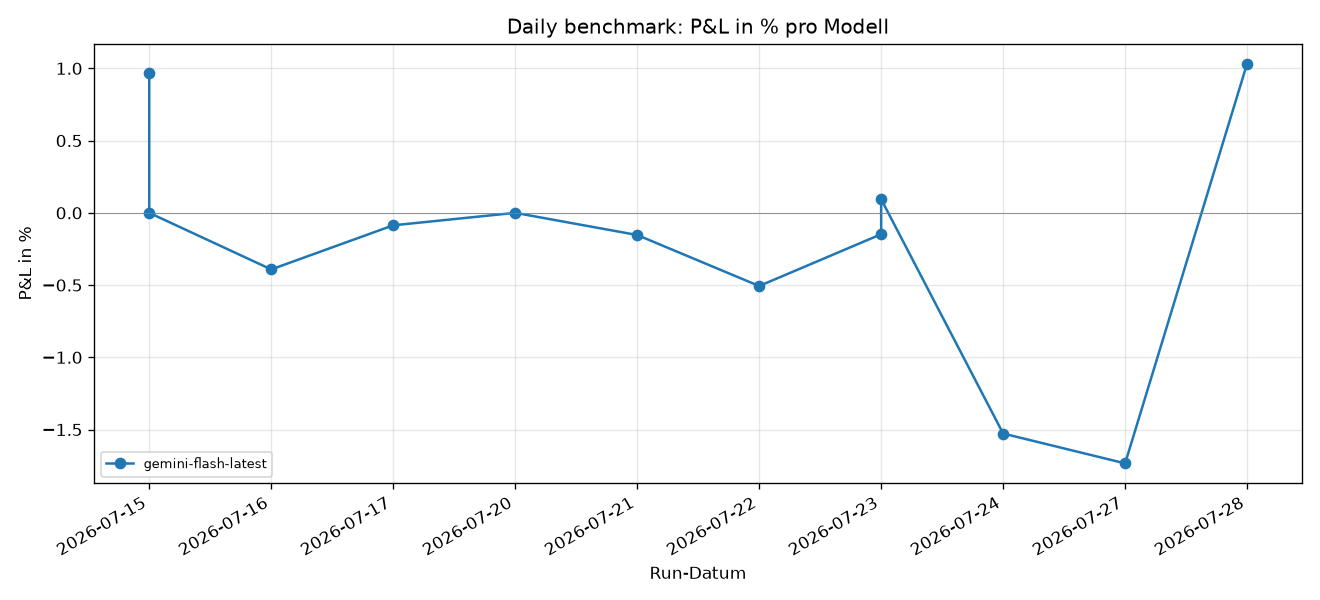
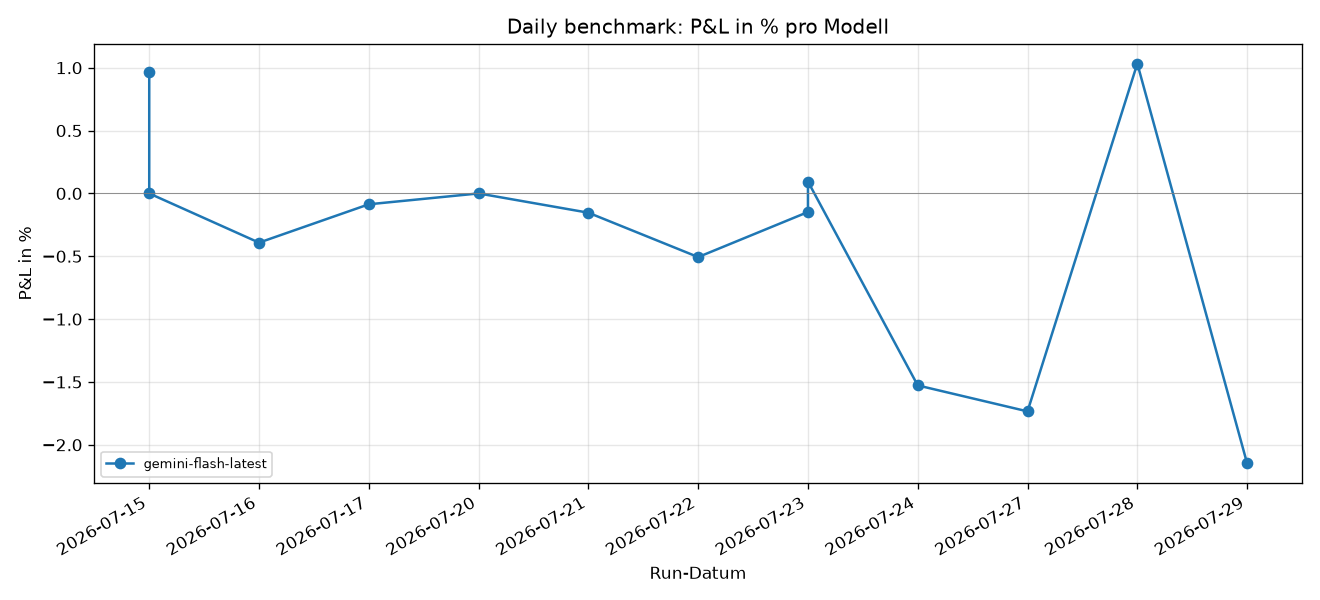
gemini benchmark: 2026-07-29 [skip ci]

diff --git a/docs/index.html b/docs/index.html
@@ -19,17 +19,17 @@
   <h1>AgentTrader — täglicher Modell-Benchmark</h1>
   <p>
     Automatisch generiert aus <code>data/leaderboard.csv</code>.
-    Insgesamt 12 Läufe, 1 Modelle,
-    Zeitraum 2026-07-15 bis 2026-07-28.
+    Insgesamt 13 Läufe, 1 Modelle,
+    Zeitraum 2026-07-15 bis 2026-07-29.
   </p>
 
-  <h2>Letzter Lauf (2026-07-28)</h2>
+  <h2>Letzter Lauf (2026-07-29)</h2>
   <table>
     <thead><tr>
       <th>Modell</th><th>Prompt</th><th>Trades</th>
       <th>Start</th><th>Ende</th><th>P&L %</th><th>Audit</th>
     </tr></thead>
-    <tbody><tr><td>gemini-flash-latest</td><td>v6</td><td>4</td><td>10000.00</td><td>10103.30</td><td><span class="pos">+1.03 %</span></td><td>✔</td></tr></tbody>
+    <tbody><tr><td>gemini-flash-latest</td><td>v6</td><td>4</td><td>10000.00</td><td>9785.23</td><td><span class="neg">-2.15 %</span></td><td>✔</td></tr></tbody>
   </table>
 
   <h2>Aggregat (alle Läufe)</h2>
@@ -38,7 +38,7 @@
       <th>Modell</th><th>Runs</th><th>Ø P&L %</th>
       <th>Best %</th><th>Worst %</th><th>Ø Trades</th>
     </tr></thead>
-    <tbody><tr><td>gemini-flash-latest</td><td>12</td><td><span class="neg">-0.20 %</span></td><td><span class="pos">+1.03 %</span></td><td><span class="neg">-1.73 %</span></td><td>1.9</td></tr></tbody>
+    <tbody><tr><td>gemini-flash-latest</td><td>13</td><td><span class="neg">-0.35 %</span></td><td><span class="pos">+1.03 %</span></td><td><span class="neg">-2.15 %</span></td><td>2.1</td></tr></tbody>
   </table>
 
   <h2>Verlauf</h2>
